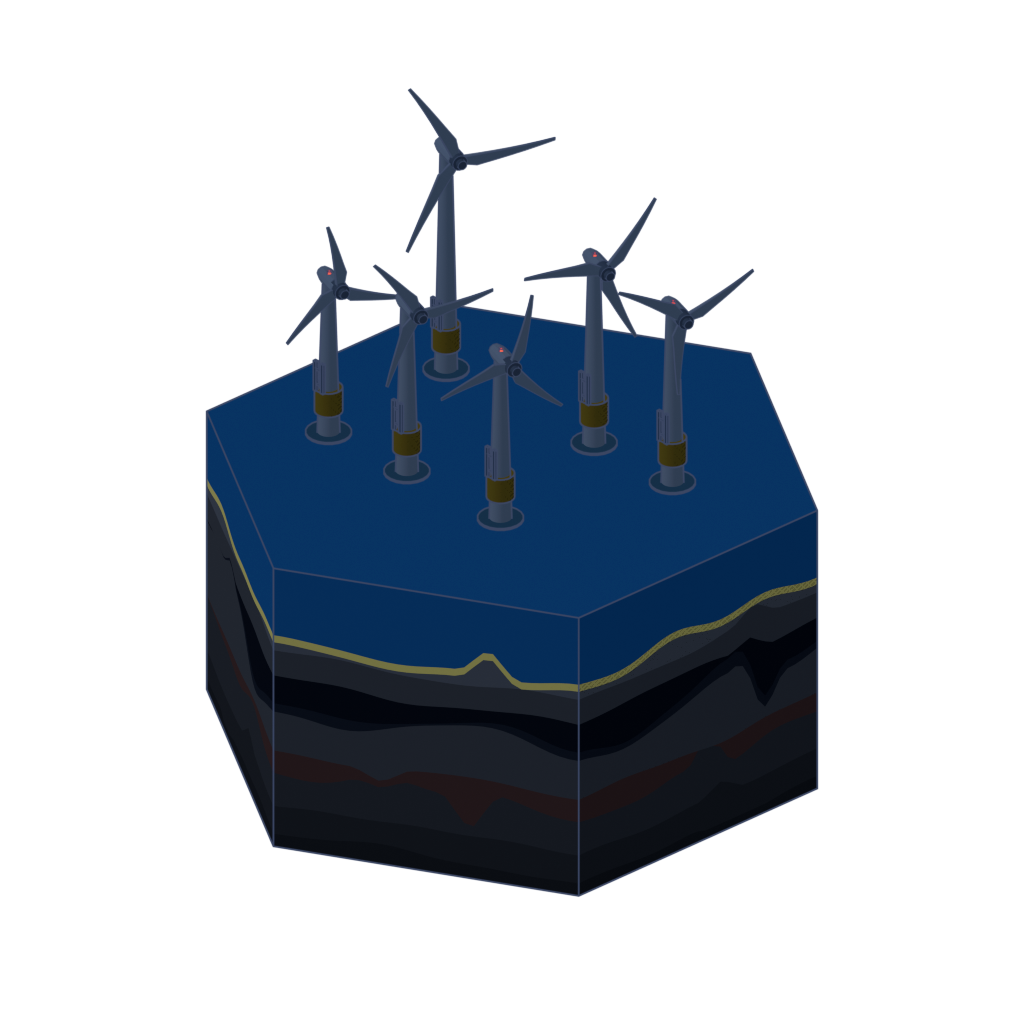
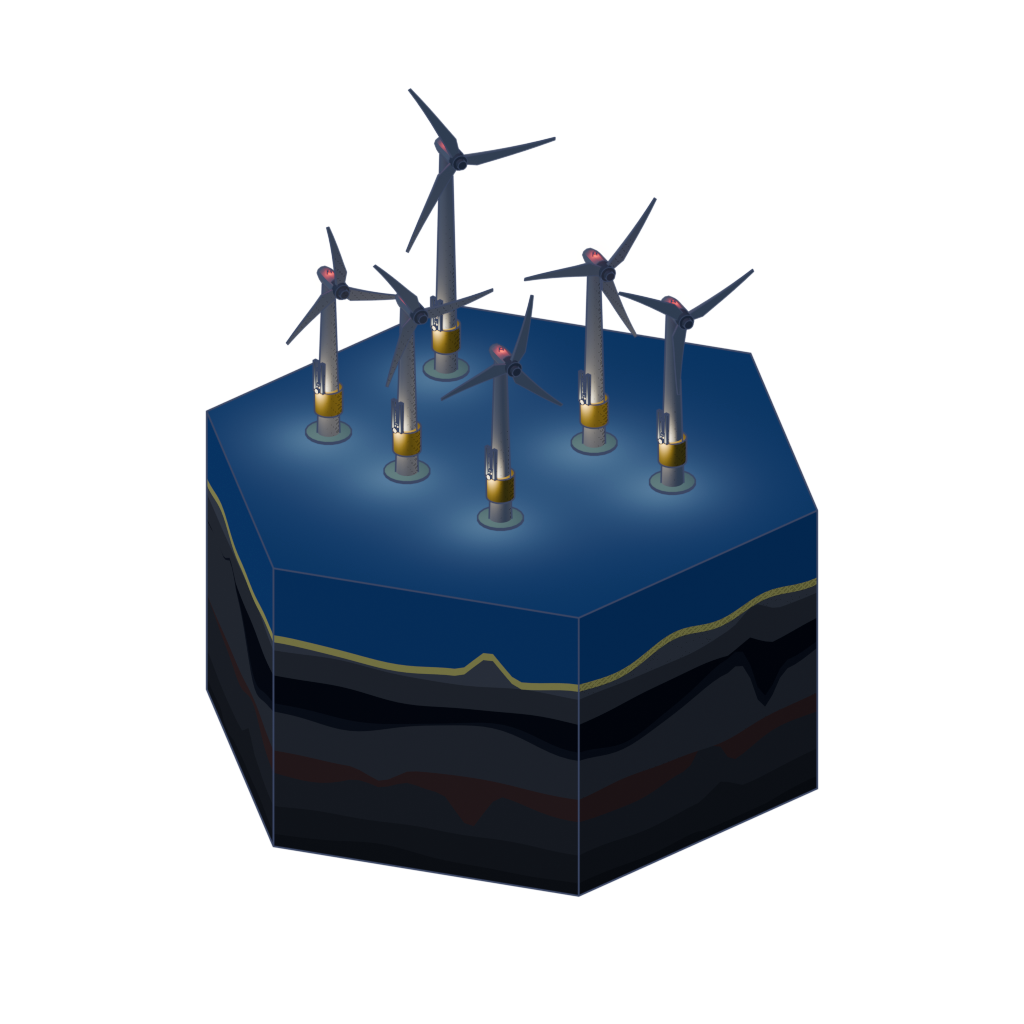
Illuminate flare and turbine lights and fix preview capture sizing

Changed region(s): [[0.2188, 0.25, 0.75, 0.5625]]

diff --git a/tools/loading_carousel/render_tiles.py b/tools/loading_carousel/render_tiles.py
@@ -155,6 +155,7 @@ bg = scene.world.node_tree.nodes.get('Background')
 def point(name, pos, energy, colour):
     data = bpy.data.lights.new(name, 'POINT')
     data.energy, data.color, data.shadow_soft_size = energy, colour, .65
+    data.use_shadow = False  # match the capsule's flat face lighting, without cast shadows
     ob = bpy.data.objects.new(name, data)
     scene.collection.objects.link(ob)
     ob.location = pos
@@ -251,8 +252,42 @@ if family == 'furnace':
         # Heat remains present in daylight; its spill becomes clearer at night.
         heat_sources.append(ob)
 
+flare_lamps = []
+if family == 'petro_refinery':
+    for ob in objects:
+        if ob.name != 'flare_flame':
+            continue
+        flame_mat = bpy.data.materials.new('LoadingFlareFlame')
+        flame_mat.use_nodes = True
+        nodes, links = flame_mat.node_tree.nodes, flame_mat.node_tree.links
+        nodes.clear()
+        tex = nodes.new('ShaderNodeTexCoord')
+        xyz = nodes.new('ShaderNodeSeparateXYZ')
+        ramp = nodes.new('ShaderNodeValToRGB')
+        ramp.color_ramp.elements[0].color = (1, .90, .30, 1)
+        ramp.color_ramp.elements[1].color = (1, .12, .002, 1)
+        ramp.color_ramp.elements.new(.30).color = (1, .55, .025, 1)
+        emission = nodes.new('ShaderNodeEmission')
+        emission.inputs['Strength'].default_value = 3
+        output = nodes.new('ShaderNodeOutputMaterial')
+        links.new(tex.outputs['Generated'], xyz.inputs[0])
+        links.new(xyz.outputs['Z'], ramp.inputs[0])
+        links.new(ramp.outputs['Color'], emission.inputs['Color'])
+        links.new(emission.outputs[0], output.inputs['Surface'])
+        ob.data.materials.clear()
+        ob.data.materials.append(flame_mat)
+        bounds = [ob.matrix_world @ Vector(c) for c in ob.bound_box]
+        p = sum(bounds, Vector())/8
+        # The flame's base lights the flare shield, lattice and nearby equipment.
+        p.z = min(v.z for v in bounds) + .22*scale
+        lamp = point('Flare light spill', p, 320*scale*scale, (1, .38, .055))
+        lamp.data.shadow_soft_size = .20*scale
+        flare_lamps.append(lamp)  # a burning flare also emits light during the day
+
 if not sea:
     night_lamps.append(point('Yard light', (1.0,-2.1,.65), 65, warm))
+top_beacons = []
+base_lights = []
 if sea:
     # Small red aviation lights on the actual nacelles, not on the blade tips.
     beacon_col = bpy.data.collections.new('LoadingBeacons')
@@ -262,13 +297,35 @@ if sea:
     node = beacon_mat.node_tree.nodes.get('Principled BSDF')
     node.inputs['Base Color'].default_value = (1,.03,.01,1)
     node.inputs['Emission Color'].default_value = (1,.03,.01,1)
+    node.inputs['Emission Strength'].default_value = 3.0
+    base_mat = window_mat.copy()
+    base_mat.name = 'LoadingTurbineBaseLight'
+    node = base_mat.node_tree.nodes.get('Principled BSDF')
+    base_colour = (1, .86, .56)
+    node.inputs['Base Color'].default_value = (*base_colour, 1)
+    node.inputs['Emission Color'].default_value = (*base_colour, 1)
+    node.inputs['Emission Strength'].default_value = 2.2
     for ob in objects:
-        if not ob.name.startswith('nac'):
-            continue
-        p = ob.matrix_world @ Vector((0,0,0))
-        bounds = [ob.matrix_world @ Vector(c) for c in ob.bound_box]
-        p = Vector((sum(v.x for v in bounds)/8, sum(v.y for v in bounds)/8, max(v.z for v in bounds)+.015))
-        bk.cyl('Beacon', p.x,p.y,p.z,.026,.04,beacon_mat,segments=10)
+        if ob.name.startswith('nac'):
+            bounds = [ob.matrix_world @ Vector(c) for c in ob.bound_box]
+            p = sum(bounds, Vector())/8
+            p.z = max(v.z for v in bounds)+.015
+            bk.cyl('Beacon', p.x,p.y,p.z,.026,.04,beacon_mat,segments=10)
+            lamp = point('Red turbine top light', p, 3*scale*scale, (1, .015, .003))
+            lamp.data.shadow_soft_size = .06
+            night_lamps.append(lamp)
+            top_beacons.append(lamp)
+        elif ob.name.startswith('tp') and ob.name[2:].isdigit():
+            # A small lamp on each boat-landing band, facing out from the monopile.
+            bounds = [ob.matrix_world @ Vector(c) for c in ob.bound_box]
+            p = sum(bounds, Vector())/8
+            p.y = min(v.y for v in bounds)-.025
+            p.z = max(v.z for v in bounds)+.025
+            bk.cyl('BaseLight', p.x,p.y,p.z,.036,.025,base_mat,axis='Y',segments=12)
+            lamp = point('Yellow-white turbine base light', p, 24*scale*scale, base_colour)
+            lamp.data.shadow_soft_size = .10
+            night_lamps.append(lamp)
+            base_lights.append(lamp)
     for ob in beacon_col.objects:
         ob.hide_render = True
 else:
@@ -333,4 +390,5 @@ model = ROOT / f'price-of-everything-0.1/assets/supply_chain_3d/{family}_lvl3.gl
     footprint_radius=reach*scale, hex_inradius=R*math.sqrt(3)/2,
     ground_z=.012, windows=len(windows), skylights=len(skylights),
     turbine_roof_panes=len(hall_glazing), interior_lamps=len(interior_lamps),
-    heat_sources=len(heat_sources)), indent=2)+'\n')
+    heat_sources=len(heat_sources), flare_lamps=len(flare_lamps),
+    turbine_top_beacons=len(top_beacons), turbine_base_lights=len(base_lights)), indent=2)+'\n')

diff --git a/tools/loading_carousel/README.md b/tools/loading_carousel/README.md
@@ -17,7 +17,10 @@ panes lit, industrial heat/flare cues and small nacelle beacons. The factory's s
 skylights and annex roof panes light up within their existing mullions. The power plant
 retains transparent roof glazing over warm work lights illuminating its turbine sets.
 The furnace's recessed working bays and molten ladles have yellow centres, orange/red
-edges and local light spill in both looks. Smoke is pre-rendered.
+edges and local light spill in both looks. The refinery flare casts warm light onto its
+shield, tower and nearby equipment in both looks. Each offshore turbine has a red nacelle
+light and a yellow-white light by its boat landing, with local spill at night. These are
+offline lights; runtime rendering still uses only the day/night images. Smoke is pre-rendered.
 The face-orientation print pass uses the same stipple method as the capsule and sprites.
 Brick materials also receive the game's catalogue coursing: 0.075m courses, 0.21m
 stretcher bond and 0.005m pale joints, in source model coordinates. That procedural paint
@@ -63,6 +66,29 @@ Play mode runs a fresh New Game through Begin into gameplay. Record mode writes 
 frames for a 30fps review movie; these are review outputs, not game assets. Normal loading
 can still stall during indivisible main-thread world work; the carousel does not change
 that underlying workload.
+
+The recorder verifies the window and image size before saving every frame. A review movie
+from 18 October contained one 3600x2260 frame (frame 54) among its 1280x720 images while
+macOS finished restoring the saved display size. This caused the factory's brief apparent
+width change. The recorder now retries such captures without advancing the review clock;
+it does not resize a bad frame into the movie or change the runtime carousel's geometry.
+
+### Optional rising smoke
+
+The present smoke is part of each still. A separate, tightly cropped, pre-rendered smoke
+loop could rise without live 3D, particles or per-puff CPU updates: keep the buildings and
+hex static, pack a short loop into an atlas, and draw it with one extra quad per plume.
+Bake colour for both day and night with matching coverage, then blend it with the same
+night factor. A phase-offset or displacement of the entire still would also distort the
+chimney or make smoke detach from its mouth, so use a separate layer.
+
+At 256x256, 12 BC7-compressed frames with mipmaps for each of two looks cost about 2 MiB
+per plume; profiling should decide the resolution/frame count, and only current/next
+plumes should stay resident. Bake the smoke-free base and fixed camera/occlusion masks
+alongside the loop before switching the runtime presentation. This is feasible future
+work, not implemented by this lighting revision. Busy workers alone need not stop such
+an animation, but a blocked main thread still prevents Godot from submitting new frames.
+It would pause during the existing main-thread loading stalls, just like the fade/slide.
 
 ## Loading profile and proposed split (18 October 2026)
 
